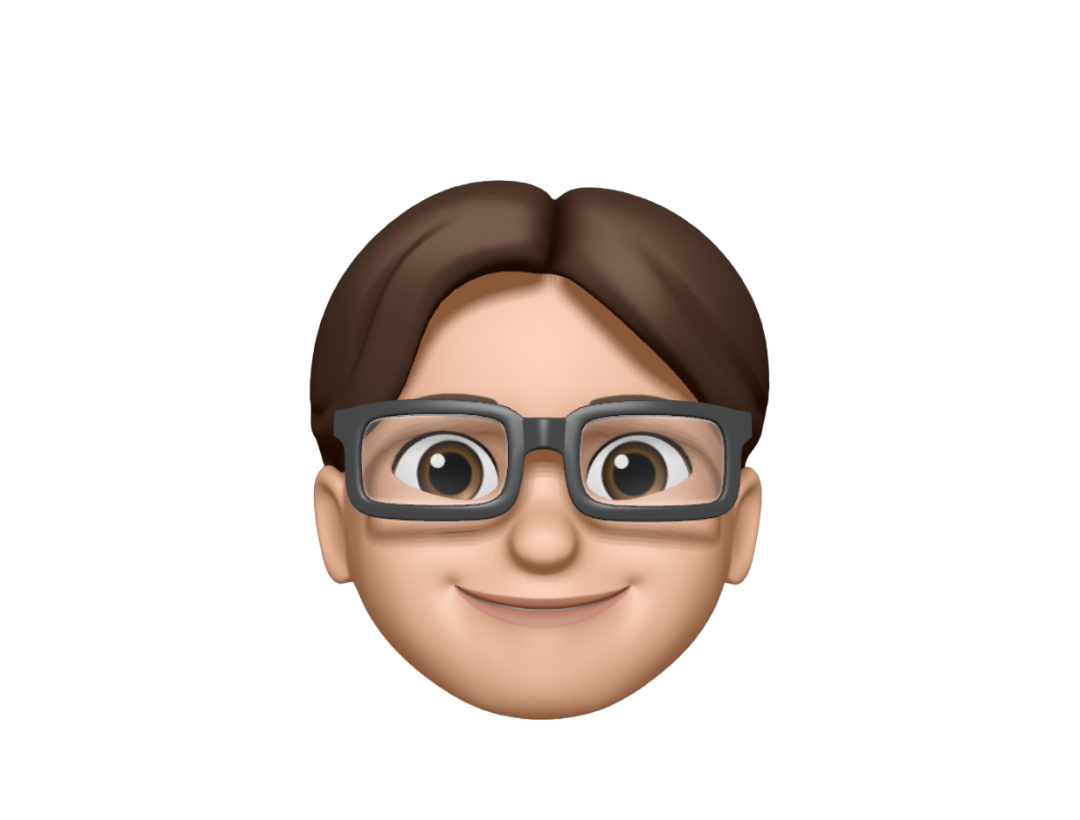
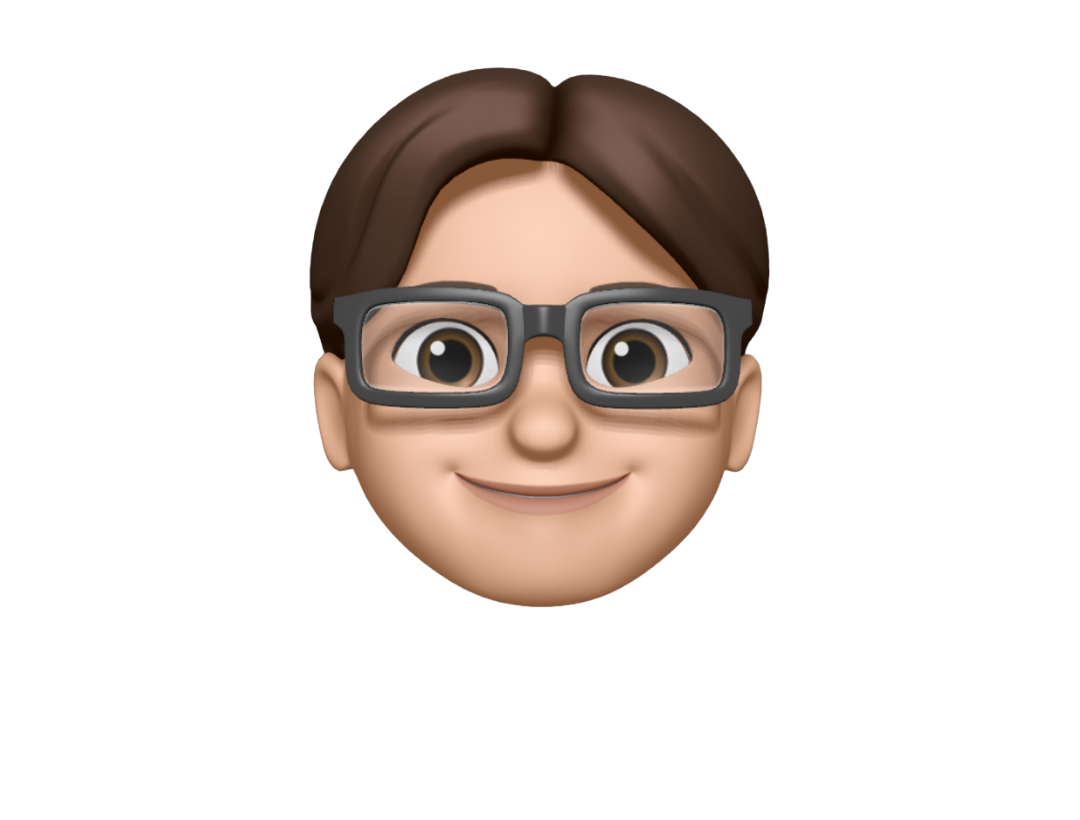
new grid 1 image

Changed region(s): [[0.275, 0.061, 0.7333, 0.8841]]

diff --git a/vite-portfolio/src/sections/about/About.jsx b/vite-portfolio/src/sections/about/About.jsx
@@ -79,7 +79,7 @@ useEffect(() => {
     const isMobile = useIsMobile()
     const isTallMobile = useIsTallMobile()
 
-  // my-20
+  // my-20 sm:h-[266px]
 
     const isLaptop = useMediaQuery({ minWidth: 769, maxWidth: 1280 })
     const isMonitor = useMediaQuery({ minWidth: 1281, maxWidth: 1600 })
@@ -102,7 +102,7 @@ useEffect(() => {
             <div className="grid xl:grid-cols-3 xl:grid-rows-6 md:grid-cols-2 grid-cols-1 gap-5 h-full">
                 <div className="xl:col-span-2 xl:row-span-3">
                     <div className="grid-container">
-                        <img src="/assets/grid-1.png" alt="grid-1" className="w-full sm:h-[266px] h-fit object-contain" />
+                        <img src="/assets/grid-1.png" alt="grid-1" className="w-full sm:h-[350px] h-fit object-contain" />
                         <p className="grid-headtext">Hey there, nice to meet you.</p>
                         <p className="grid-subtext">
                             <b>Who is the person behind this page?</b> Well, let me tell you. A relentless self-starter who only ever gives his very best effort and nothing less. 
